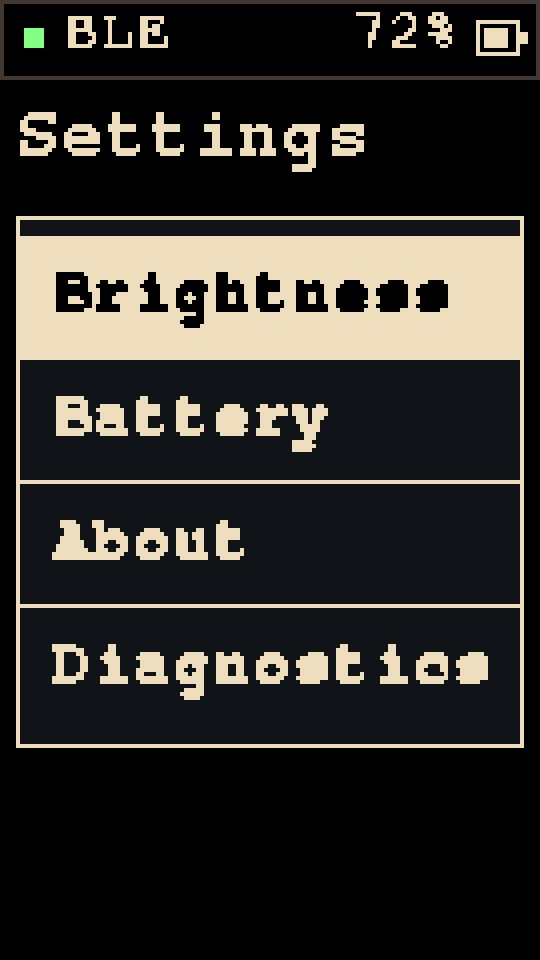
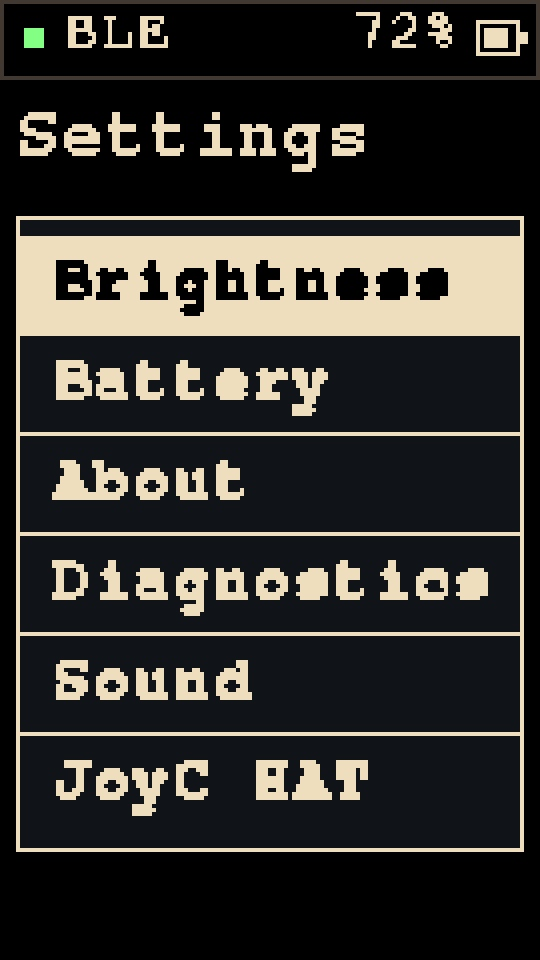
docs: add sound and joystick settings previews and device checks
- Describe the corrected one-byte axis reads and optional center click.
- Document saved sound and LED checkbox behavior with compact screen labels.
- Render the thirteen-screen overview and add focused feedback acceptance checks.
- Record the remaining physical HAT detection and audio/LED verification.

Changed region(s): [[0.0296, 0.25, 0.9778, 0.9062]]

diff --git a/tools/export-preview-jpegs.swift b/tools/export-preview-jpegs.swift
@@ -7,22 +7,22 @@ func save(_ image:NSImage,_ name:String) {
  try! rep.representation(using:.jpeg,properties:[.compressionFactor:0.98])!.write(to:target.appendingPathComponent(name))
 }
 for url in files { save(NSImage(contentsOf:url)!,url.deletingPathExtension().lastPathComponent+".jpg") }
-let board=NSImage(size:NSSize(width:2240,height:1110));board.lockFocusFlipped(true)
-NSColor(srgbRed:0.94,green:0.95,blue:0.93,alpha:1).setFill();NSBezierPath(rect:NSRect(x:0,y:0,width:2240,height:1110)).fill()
+let board=NSImage(size:NSSize(width:2240,height:1580));board.lockFocusFlipped(true)
+NSColor(srgbRed:0.94,green:0.95,blue:0.93,alpha:1).setFill();NSBezierPath(rect:NSRect(x:0,y:0,width:2240,height:1580)).fill()
 func text(_ text:String,_ x:CGFloat,_ y:CGFloat,_ size:CGFloat,_ bold:Bool=false) {
  (text as NSString).draw(at:NSPoint(x:x,y:y),withAttributes:[.font:NSFont(name:bold ? "Arial-BoldMT":"ArialMT",size:size)!, .foregroundColor:NSColor(srgbRed:0.08,green:0.14,blue:0.11,alpha:1)])
 }
 text("BITCHAT STICK",48,31,38,true)
 text("FreeMono / cream #EBDCBA / 135 × 240 / simulated data",50,86,19)
-let names=["07-splash","01-dashboard","02-nearby-peers","03-channels","04-channel-messages","05-infobot","06-settings","08-brightness","10-battery","09-about","11-diagnostics"]
-let titles=["START","HOME","NEARBY","INBOX","MESSAGES","INFOBOT","SETTINGS","BRIGHTNESS","BATTERY","ABOUT","DIAGNOSTICS"]
-for i in 0..<11 {
- let x=CGFloat(50+(i%6)*360),y=CGFloat(i<6 ? 145:615)
+let names=["07-splash","01-dashboard","02-nearby-peers","03-channels","04-channel-messages","05-infobot","06-settings","08-brightness","10-battery","09-about","11-diagnostics","12-sound","13-joyc-hat"]
+let titles=["START","HOME","NEARBY","INBOX","MESSAGES","INFOBOT","SETTINGS","BRIGHTNESS","BATTERY","ABOUT","DIAGNOSTICS","SOUND","JOYC HAT"]
+for i in 0..<names.count {
+ let x=CGFloat(50+(i%6)*360),y=CGFloat(145+(i/6)*470)
  text(titles[i],x,y,16,true)
  let img=NSImage(contentsOf:source.appendingPathComponent(names[i]+".png"))!
  NSGraphicsContext.current!.imageInterpolation = .none
  img.draw(in:NSRect(x:x,y:y+31,width:216,height:384),from:.zero,operation:.sourceOver,fraction:1,respectFlipped:true,hints:nil)
 }
-text("A confirm  ·  B up  ·  C down  ·  Hold B back  |  No hardware capture or messaging compatibility claim",50,1065,17)
+text("A confirm  ·  B up  ·  C down  ·  Hold B back  |  No hardware capture or messaging compatibility claim",50,1535,17)
 board.unlockFocus();save(board,"00-overview.jpg")
-print("Eleven screen JPEGs and overview saved")
+print("Thirteen screen JPEGs and overview saved")

diff --git a/test/ui_preview.cpp b/test/ui_preview.cpp
@@ -5,7 +5,8 @@
 #include "PacketSecurity.h"
 namespace stick {
 JoycSample fakeJoyc;
-JoycSample pollJoyc(uint32_t) { return fakeJoyc; }
+JoycSample pollJoyc(uint32_t, bool) { return fakeJoyc; }
+bool setJoycLed(uint8_t) { return true; }
 bool transportReady(){return true;}
 size_t transportLinks(){return 1;}
 uint32_t transportDrops(){return 0;}
@@ -36,9 +37,9 @@ int main(int argc, char** argv) {
     assert(wire::signPacket(f,other.signingSecret(),scratch,sizeof(scratch),sig));f.signature={sig,64};assert(wire::encode(f,encoded,sizeof(encoded),n)==wire::Error::None);mesh().receive({encoded,n},1);};
   incoming(1,{announcement,80});const char* text="Hello from a phone";incoming(2,{reinterpret_cast<const uint8_t*>(text),std::strlen(text)});
   beginUi();battery=72;voltage=4000;
-  const Screen pages[]={Screen::Dashboard,Screen::Peers,Screen::Channels,Screen::Messages,Screen::Bot,Screen::Settings,Screen::Splash,Screen::Brightness,Screen::About,Screen::Battery,Screen::Diagnostics};
-  const char* names[]={"01-dashboard","02-nearby-peers","03-channels","04-channel-messages","05-infobot","06-settings","07-splash","08-brightness","09-about","10-battery","11-diagnostics"};
-  for(unsigned i=0;i<11;++i) {
+  const Screen pages[]={Screen::Dashboard,Screen::Peers,Screen::Channels,Screen::Messages,Screen::Bot,Screen::Settings,Screen::Splash,Screen::Brightness,Screen::About,Screen::Battery,Screen::Diagnostics,Screen::Sound,Screen::Joystick};
+  const char* names[]={"01-dashboard","02-nearby-peers","03-channels","04-channel-messages","05-infobot","06-settings","07-splash","08-brightness","09-about","10-battery","11-diagnostics","12-sound","13-joyc-hat"};
+  for(unsigned i=0;i<13;++i) {
     screen=pages[i];selection=pages[i]==Screen::Brightness ? 2 : 0;detail=false;draw(peers,3000);
     assert(M5.Display.boundsOk);
     std::ofstream out((std::string(argv[1])+"/")+names[i]+".ops");

diff --git a/tools/render-previews.py b/tools/render-previews.py
@@ -45,4 +45,4 @@ for source in output.glob('*.ops'):
  for y in range(240):
   row=b''.join(bytes(pixels[(y*135+x)*3:(y*135+x)*3+3])*4 for x in range(135));rows.extend([row]*4)
  png(source.with_suffix('.png'),b''.join(rows),540,960)
-print('Eleven FreeMono/cream previews rendered from the current UI.')
+print('FreeMono/cream previews rendered from the current UI.')

diff --git a/docs/04-screens.md b/docs/04-screens.md
@@ -1,6 +1,6 @@
 # Screens, layout, and controls
 
-Target: **M5StickC Plus2, 135 × 240 pixels, portrait, en-US**. The editable [Figma file](https://www.figma.com/design/z2zlfw1uBejLJ5fFfRGkeZ/Bitchat-Stick) defines the visual direction. All eleven screens are present in the firmware. Live device information is never replaced with sample peers or chat.
+Target: **M5StickC Plus2, 135 × 240 pixels, portrait, en-US**. The editable [Figma file](https://www.figma.com/design/z2zlfw1uBejLJ5fFfRGkeZ/Bitchat-Stick) defines the visual direction. All thirteen screens are present in the firmware. Live device information is never replaced with sample peers or chat.
 
 ## Shared visual system
 
@@ -28,7 +28,7 @@ Messages returns to Inbox on hold-B. Splash leaves on short-A or JoyC right. Sho
 
 ## Optional Mini JoyC HAT
 
-The firmware supports the [M5Stack Mini JoyC HAT (U156)](https://docs.m5stack.com/en/hat/Hat_Mini_JoyC). The HAT connection uses SDA G0/SCL G26 at 100 kHz, separate from the internal RTC bus. It reads the signed 8-bit axes at `0x54`, registers `0x20`–`0x21`, following the [M5Stack protocol](https://m5stack-doc.oss-cn-shenzhen.aliyuncs.com/610/HAT_MiniJoyC.pdf). The center pushbutton does not navigate. LED and calibration settings are unchanged.
+The firmware supports the [M5Stack Mini JoyC HAT (U156)](https://docs.m5stack.com/en/hat/Hat_Mini_JoyC). The HAT connection uses SDA G0/SCL G26 at 100 kHz, separate from the internal RTC bus. It reads the signed 8-bit axes at `0x54`, registers `0x20`–`0x21`, following the [M5Stack protocol](https://m5stack-doc.oss-cn-shenzhen.aliyuncs.com/610/HAT_MiniJoyC.pdf). Each axis is read with its own one-byte register query. Settings → JoyC HAT offers independent Click and LED pulse checkboxes. Both start disabled. Calibration is read from the module.
 
 | Gesture | Activation | Behavior |
 |---|---|---|
@@ -51,7 +51,9 @@ Diagnostics shows `J:X,Y` when the HAT responds. It exposes the module's calibra
 | Inbox | Separate Mesh (`#bluetooth`) and Direct DMs destinations with unread counts; A opens the selected history | No private groups or Nostr context |
 | Messages | Twelve-entry public/DM live history with BLE/DM labels; B/C cycle messages; A opens text-scroll mode; B/C scroll; hold-B leaves detail, then returns to Inbox | RAM-only, 192 displayed bytes, truncation indicated; no composer |
 | InfoBot | Command reference, authentication readiness, immediate Bot ON/OFF switch | Toggle is per boot; Welcome OFF |
-| Settings | Four working destinations | Additional configuration is future scope |
+| Settings | Brightness, Battery, About, Diagnostics, Sound, JoyC HAT | Choices use compact rows |
+| Sound | Independent Interact, DM alert and Mesh msg square checkboxes | All default off |
+| JoyC HAT | Click and LED pulse square checkboxes, connection/button state | Both default off |
 | Brightness | Five presets, explicit apply, persistent value, visible save failure | Physical 5% readability remains to be checked |
 | Battery | Real voltage and approximate percentage | No calibrated runtime or unsupported charging claim |
 | About | Wander Lima credits and real repository QR | Camera reading still requires physical acceptance |
@@ -107,10 +109,16 @@ The **95 × 95px** QR points to **https://github.com/wanderlima/bitchat-stick**.
 
 ## Verification and previews
 
-The [eleven JPEG previews](screens/README.md) are generated from current drawing calls and pinned font bitmaps, using simulated measurements. They are not hardware screenshots or protocol evidence. The host UI regression checks controls, applied-versus-focused brightness, all screens, live status, ordinary/candidate/empty peers, large counters and text/rectangle bounds. Physical readability, battery behavior, radio scanning, and QR camera reading need a device pass after upload.
+The [thirteen JPEG previews](screens/README.md) are generated from current drawing calls and pinned font bitmaps, using simulated measurements. They are not hardware screenshots or protocol evidence. The host UI regression checks controls, applied-versus-focused brightness, all screens, live status, ordinary/candidate/empty peers, large counters and text/rectangle bounds. Physical readability, battery behavior, radio scanning, and QR camera reading need a device pass after upload.
 
 ## Inbox and read state
 
 **Mesh** is a label for the apps' existing public local mesh (`#bluetooth`), not a new room created by the Stick. Multiple nearby participants share it. **Direct DMs** filters private messages addressed to the Stick. The shared header, including Start, shows an envelope whenever a retained incoming message is unread; Home and each inbox show counts. Viewing one message marks only that entry read. Incoming messages do not replace the message currently being read.
 
 For DMs, a local read schedules the official encrypted Noise read receipt (`0x02` plus the original message ID). Unopened DMs produce only delivered receipts (`0x03`). Pending read receipts retry with bounded work when a suitable authenticated session is available. A queued receipt is not guaranteed radio delivery, and read state is not persisted across reboot.
+
+## Sound and joystick preferences
+
+Settings → Sound uses square checkboxes for independent selections. Interact plays a short 30 ms beep on an interaction and two beeps on confirmation. DM alert and Mesh msg use different short tones for newly accepted incoming messages. Duplicate packets, announcements and outgoing replies do not trigger message alerts. Sound runs asynchronously while the UI and BLE loop continue.
+
+Settings → JoyC HAT has Click and LED pulse. Click reads the active-low button only when enabled, debounces for 30 ms and requires a released button before the first confirmation. LED pulse produces a brief green fade after interaction. All five checkboxes default off and persist as one versioned NVS record, independently of brightness. Save failure is shown as Not saved.

diff --git a/README.md b/README.md
@@ -33,13 +33,15 @@ Exit the monitor with `Ctrl+C` before uploading again. Deployment currently mean
 - **Hold B for 700 ms:** go back; from Home, open Settings.
 - **Hold C for 6 seconds:** retain the power-off behavior. A long C press never becomes a down action on release.
 
-The optional **M5Stack Mini JoyC HAT (U156)** also navigates the menus: left goes back, right confirms, and up/down move and repeat every 1.5 seconds when held past the activation threshold. Left/right require recentering before another action. The physical buttons remain available. See the [JoyC controls](docs/04-screens.md#optional-mini-joyc-hat) and [device checks](docs/13-device-checklist.md#1a-mini-joyc-hat).
+The optional **M5Stack Mini JoyC HAT (U156)** also navigates the menus: left goes back, right confirms, and up/down move and repeat every 1.5 seconds when held past the activation threshold. Left/right require recentering before another action. The physical buttons remain available. Settings → JoyC HAT adds optional Click confirmation and LED pulse, both disabled by default. See the [JoyC controls](docs/04-screens.md#optional-mini-joyc-hat) and [device checks](docs/13-device-checklist.md#1a-mini-joyc-hat).
 
 The splash screen shows the project name and controls, aligned to the current Figma design. Press A to enter Home. Navigation instructions are shown only on the splash screen, freeing space on the other screens. The first press after the screen turns off only wakes it.
 
+Settings → Sound offers independent checkboxes for interaction beeps, received DMs and Mesh messages. Choices persist across restart.
+
 Settings offers 5%, 25%, 50%, 75%, and 100% brightness, with 50% as the default. About credits **Wander Lima** and includes a real QR code for [the project repository](https://github.com/wanderlima/bitchat-stick). A radio mark shows the applied brightness; the cream highlight shows the focused option.
 
-The interface uses FreeMono Regular/Bold, warm cream `#EBDCBA` instead of pure white, an outlined BLE header, high-contrast selection, grouped panels, and dividers between menu items and information groups. Nearby retains a dark-green peer card and a bright-green left border. The [screen previews](docs/screens/README.md) illustrate the current direction; they are software renders of all eleven screens, not photographs or hardware captures.
+The interface uses FreeMono Regular/Bold, warm cream `#EBDCBA` instead of pure white, an outlined BLE header, high-contrast selection, grouped panels, and dividers between menu items and information groups. Nearby retains a dark-green peer card and a bright-green left border. The [screen previews](docs/screens/README.md) illustrate the current direction; they are software renders of all thirteen screens, not photographs or hardware captures.
 
 ## Live features and remaining scope
 

diff --git a/docs/06-testing.md b/docs/06-testing.md
@@ -103,3 +103,11 @@ The framebuffer revision was built/uploaded after the owner reported lighter red
 - Final short USB observation: `links=2 peers=2 auth=2 accepted=13 rejected=0 queued=16 relay=7 drops=3 heap=144040 clock=RTC`. This confirms simultaneous subscribed/authenticated peers and source-level forwarding activity, not a controlled indirect-delivery test. Drops include attempts without a usable destination; they are not equivalent to protocol rejections.
 - Native suites passed after inbox filtering, unread tracking, stable reader focus and encrypted read receipts. Tests decrypt the exact read-receipt payload, verify no read receipt before opening, and retry a failed enqueue.
 - Owner confirmed Android delivery and DM reading before this revision. The new Android/iOS delivered-to-read UI transition remains a manual acceptance check.
+
+## Mini JoyC and feedback update — 2026-11-11
+
+The owner reported that attaching the HAT froze navigation and removing it immediately restored the menu. The original driver incorrectly requested two bytes from register 0x20. The manufacturer's STM32 source supplies exactly one byte for 0x20 (X), and one separate byte for 0x21 (Y). The corrected driver performs separate queries through a software I2C port with bounded clock-stretch handling and error recovery. The owner confirmed the menu remained responsive after the initial recovery revision. HAT movement, sound and LED behavior still require the physical checks above.
+
+Host coverage includes the one-byte register contract, disabled click reads, active-low button decoding, release-to-arm/debounce, square checkbox navigation and persistence, distinct incoming-message counters, double confirmation tones and LED pulse completion. A stuck press while enabling Click produces no action until a stable release and new press.
+
+The combined feedback revision passed seventeen native suites plus the independent CryptoKit check and the Plus2 build/upload. A short post-upload sample retained an active RTC and stable heap. UART reported `joyc=absent` during that sample, so physical HAT navigation, actual beep audibility and LED operation remain acceptance checks. The corrected register contract is pinned to the vendor source at [main.c](https://github.com/m5stack/M5Unit-MiniJoyC-Internal-FW/blob/main/HAT_MiniJoyC/Core/Src/main.c), which supplies one byte per normalized-axis query and an active-low button.

diff --git a/docs/screens/README.md b/docs/screens/README.md
@@ -2,7 +2,7 @@
 
 Default language: **English (en-US)**. These software renders come from the current UI drawing calls, pinned FreeMono font bitmaps, and simulated observations/battery values. They are not photographs, device screenshots, or evidence of Bitchat messaging compatibility. The lightweight display fake approximates hardware rendering; confirm the final appearance on the Plus2.
 
-Individual JPEGs: 540 × 960 pixels, a 4× nearest-neighbor enlargement of the 135 × 240 layout. The overview is 4480 × 2220 pixels. Text intentionally retains the pixel grid.
+Individual JPEGs: 540 × 960 pixels, a 4× nearest-neighbor enlargement of the 135 × 240 layout. The overview is 4480 × 3160 pixels. Text intentionally retains the pixel grid.
 
 The current revision restores grouped panels, the green Nearby card and left border, a live-state header square and battery icon, native 16px bold/14px compact FreeMono text, and high-contrast selection. Regular-screen navigation footers have been removed. Controls appear only on Start: A confirm, B up, C down, hold B back. C-long retains power behavior.
 
@@ -72,8 +72,16 @@ python3 tools/render-previews.py /tmp/bitchat-ui-previews
 swift -module-cache-path /tmp/bitchat-swift-cache tools/export-preview-jpegs.swift /tmp/bitchat-ui-previews docs/screens
 ```
 
-All eleven views use the actual drawing code. Simulated measurements are confined to the host harness; the firmware never seeds its observation table with mock peers.
+All thirteen views use the actual drawing code. Simulated measurements are confined to the host harness; the firmware never seeds its observation table with mock peers.
 
 ## Reproduce exports
 
 After installing the pinned PlatformIO dependencies, run `sh tools/render-device-previews.sh` on macOS. It renders the real UI calls using the test display, simulated observations/battery and synthetic signed peer/public-message traffic, then updates the JPEGs. No message is transmitted and no real identity or conversation is embedded. These previews intentionally do not claim Android/iOS interoperability.
+
+## Sound
+
+![Independent sound checkboxes](12-sound.jpg)
+
+## JoyC HAT
+
+![Optional joystick click and LED controls](13-joyc-hat.jpg)

diff --git a/docs/13-device-checklist.md b/docs/13-device-checklist.md
@@ -30,6 +30,16 @@ Date: **2026-11-10**. Device name: **Bitchat Stick**. Supported context: public 
 - [ ] Hold up and down separately: an immediate step, then one step per 1.5 seconds. Move out of the active range to stop repeating.
 - [ ] With the display off, tilt once to wake only. Center and tilt again to navigate. Check the physical buttons still work.
 
+## 1b. Sound and JoyC options
+
+- [ ] Start with all Sound and JoyC checkboxes off. Confirm normal navigation with the HAT attached, then disconnected.
+- [ ] Sound → Interact plays one short beep on movement/back and two on confirmation.
+- [ ] Test DM alert and Mesh msg independently with fresh incoming messages. Duplicate transmissions and own replies stay quiet.
+- [ ] Confirm Click is off by default. A stuck button must not prevent axis or physical-button navigation while Click is off.
+- [ ] Enable Click, release it, then press again to confirm once. Holding it must not repeat. Test a press held while enabling.
+- [ ] Enable LED pulse and interact. Check a short green pulse and return to off. Disable it and verify pulses stop.
+- [ ] Restart and verify all five choices persist, along with the existing brightness setting.
+
 ## 2. Settings, battery and QR
 
 - [ ] Apply each brightness: 5%, 25%, 50%, 75%, 100%; check readability and radio mark versus focus highlight.
